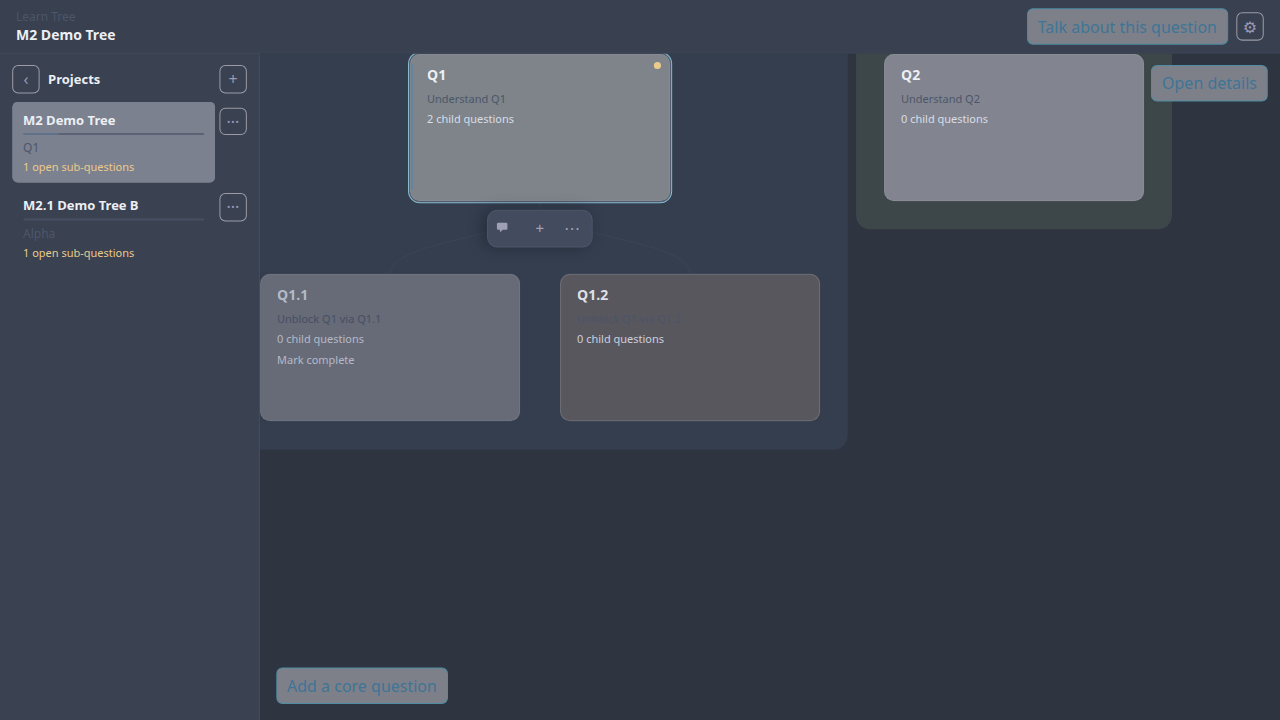
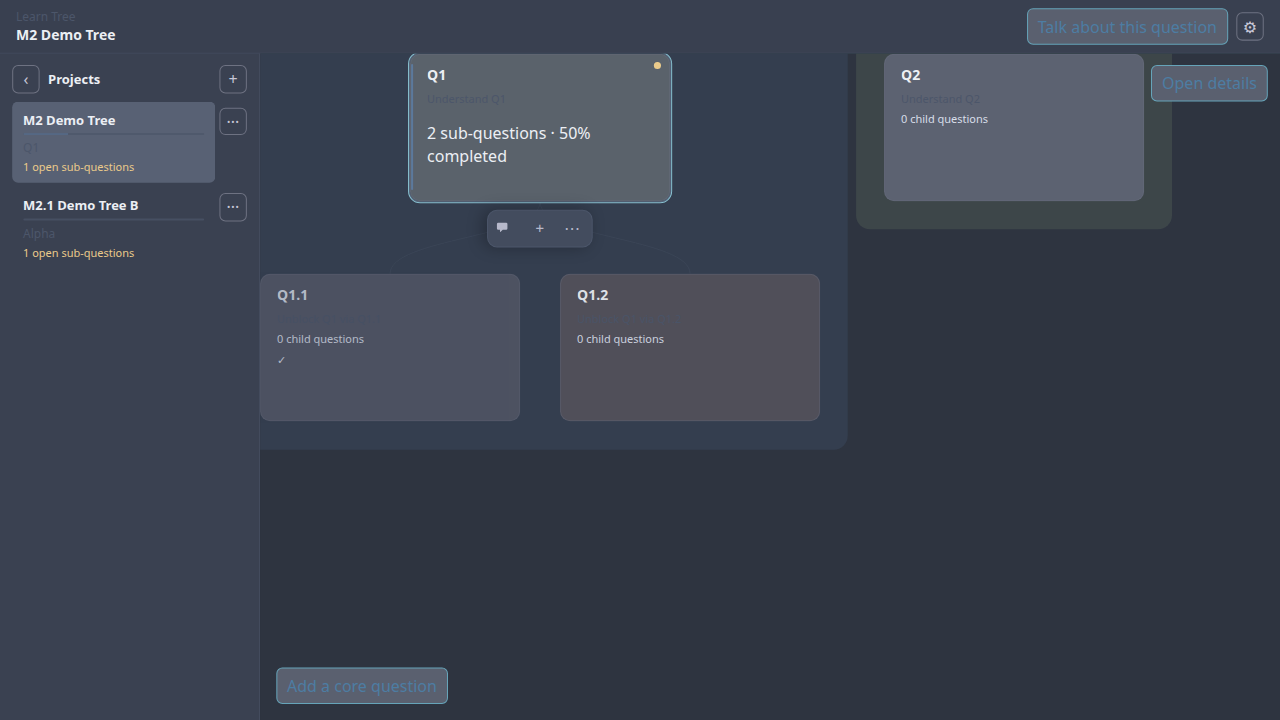
fix(TASK-009): rebase onto TASK-005 flat model and refresh evidence
Drop Project Root canvas filters after main merge, regenerate acceptance
screenshots and first-layer visual snapshot, and align localization /
product-workspace tests with focus-only NodeToolbar actions.

diff --git a/e2e/specs/localization.spec.ts b/e2e/specs/localization.spec.ts
@@ -9,10 +9,14 @@ test("switching to zh-CN keeps node child authoring usable", async ({ page }) =>
   await page.getByTestId("locale-zh").click();
   await expect(page.locator("html")).toHaveAttribute("lang", "zh-CN");
   await expect(page.getByTestId("sidebar-title")).toHaveText("项目");
+  await page.keyboard.press("Escape");
   await expect(page.getByTestId("bootstrap-summary")).toBeVisible();
 
-  const nodeId = await page.locator("[data-node-id]").first().getAttribute("data-node-id");
+  const node = page.locator("[data-node-id]").first();
+  await expect(node).toBeVisible();
+  const nodeId = await node.getAttribute("data-node-id");
   expect(nodeId).toBeTruthy();
+  await node.click();
   await page.getByTestId(`node-add-child-${nodeId}`).click();
   await page.getByTestId("authoring-question").fill("代理如何规划？");
   await page.getByTestId("authoring-goal").fill("能讲清主循环");

diff --git a/tests/ui/product-workspace.test.tsx b/tests/ui/product-workspace.test.tsx
@@ -81,9 +81,12 @@ describe("production workspace UI", () => {
     expect(screen.getByTestId("inspector-summary-heading")).toBeInTheDocument();
     expect(screen.queryByTestId("action-activate")).toBeNull();
     expect(screen.queryByTestId("inspector-lifecycle")).toBeNull();
-    expect(screen.queryByTestId("active-stack")).not.toHaveTextContent(
-      recommended!.textContent ?? "---",
-    );
+    // Recommended focus selects only — does not activate an Active Stack.
+    expect(screen.queryByTestId("active-stack")).not.toBeInTheDocument();
+    expect(
+      screen.getByTestId("tree-nodes").querySelectorAll('[data-on-stack="true"]')
+        .length,
+    ).toBe(0);
     await user.click(screen.getByTestId("add-core-question"));
     await user.type(screen.getByTestId("core-question-input"), "How do agents plan?");
     await user.type(screen.getByTestId("core-goal-input"), "Explain the loop");
